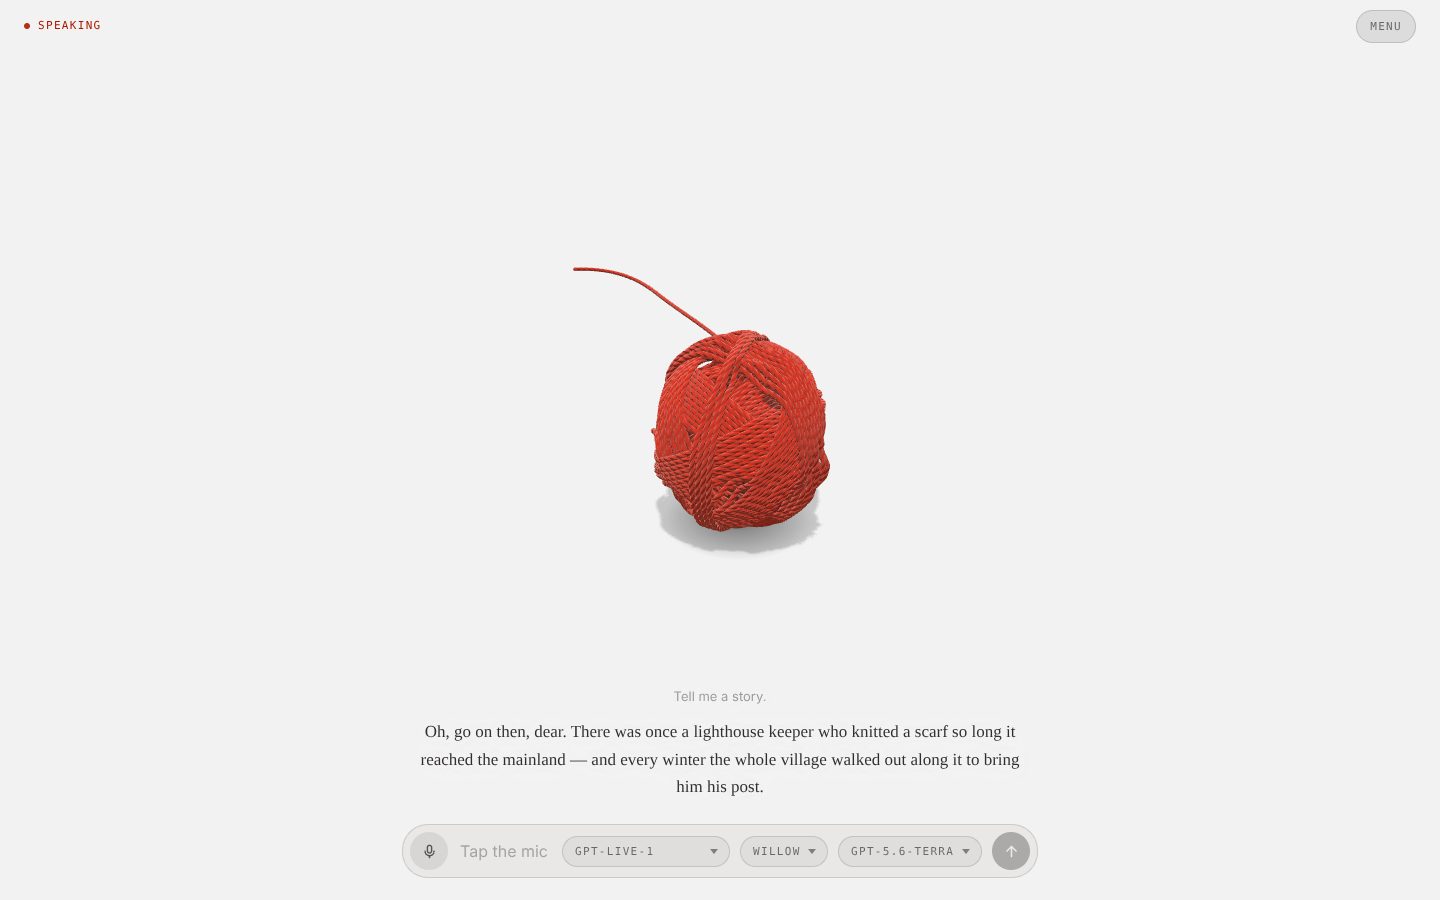
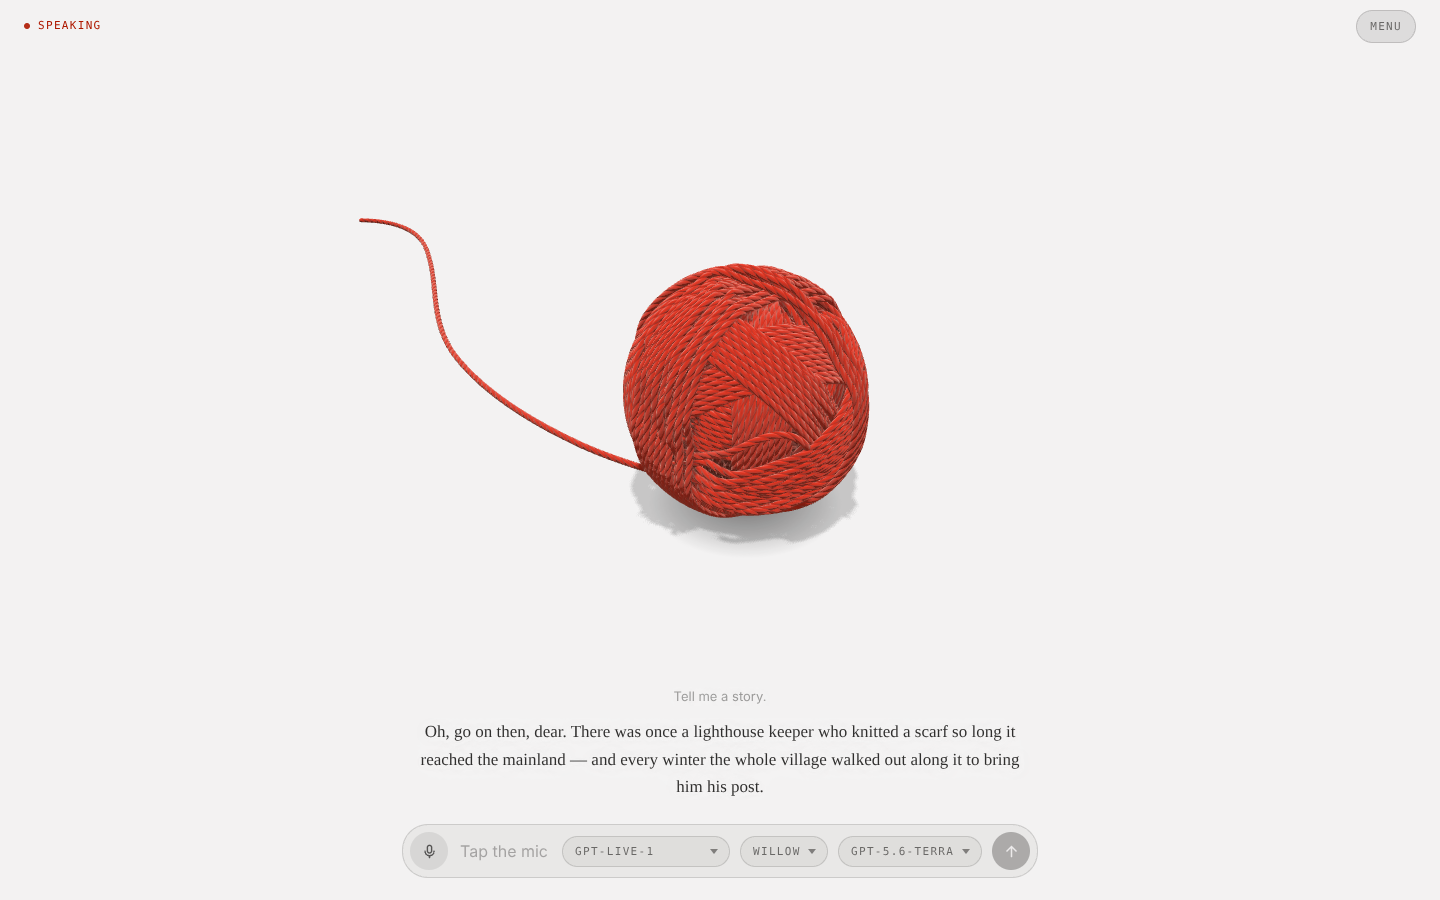
Roll Carol on the diagonal, and orbit round her
- The route now runs diagonally, back-left to front-right, between the
  original side-to-side and the straight-at-the-camera versions.
- The camera's pivot follows the ball most of the way from the middle of the
  route, at ball height, so dragging orbits Carol instead of a point under
  the floor. The camera sits closer.
- gfx: a lensShift on PerspectiveCamera slides the picture up clear of the
  caption without aiming the camera below the floor.
- The floor test now checks the whole route, allowing the yarn-width dips
  the asset's averaged radius produces.
- Screenshots and design notes updated.

Claude-Session: https://claude.ai/code/session_01FzdF7g8vzkqoMdQj7Bxx7t

diff --git a/src/client/yarn/index.js b/src/client/yarn/index.js
@@ -4,14 +4,25 @@ import { ENERGY_GAIN, MOODS, ROLL } from './moods.js';
 /** The springs are stepped at no less than this, so they stay stable on a slow frame. */
 const STEP = 1 / 120;
 
-/** Where the camera looks: the middle of the route, a little under the floor — so the floor sits above the caption. */
-const TARGET = Object.freeze({ x: 0, y: -0.04, z: 0 });
+/** The middle of the route, at the height of the middle of the ball. */
+const TARGET = Object.freeze({ x: 0, y: 0.09, z: 0 });
 
 /**
- * How far up a tall screen the floor is lifted, as a share of the view's height
- * for each unit the screen is narrower than square.
+ * What the camera turns round follows her this much of the way from the middle
+ * of the route: nearly all, so a drag orbits Carol rather than a spot on the
+ * floor, but not quite, so she still comes toward you when she rolls forward.
  */
-const LIFT = 0.22;
+const FOLLOW = 0.8;
+
+/** How quickly that point keeps up with her, per second. */
+const FOLLOW_RATE = 3;
+
+/**
+ * How far up the picture is slid, as a share of its height, so she sits above
+ * the caption and the composer: a little on a wide screen, and more for each
+ * unit a tall one is narrower than square.
+ */
+const SHIFT = Object.freeze({ base: 0.06, tall: 0.22 });
 
 /** The way the camera looks in from, before anyone orbits it. */
 const SEAT = Object.freeze({ x: 1, y: 0.9, z: 1.25 });
@@ -78,22 +89,22 @@ export function createCarol({ stage, GFX, seed }) {
   /**
    * Back the camera off, along the way it already looks, far enough that the
    * ball at the near end of the route is still a ball and not the whole view,
-   * and that the route's sway fits across. On a phone held upright the width is
-   * what decides it — and the caption and the composer
-   * take the bottom of a tall screen, so the floor is lifted clear of them.
+   * and that the route fits across. On a phone held upright the width is what
+   * decides it — and the caption and the composer take the bottom of a tall
+   * screen, so the picture is slid up clear of them.
    */
   function refit(camera) {
     const target = stage._controls?.target;
     const half = Math.tan((camera.fov * Math.PI) / 360);
     const aspect = Math.max(camera.aspect || 1.6, 0.45);
-    const distance = Math.max(1.45, 0.32 / (half * aspect));
+    const distance = Math.max(0.95, 0.3 / (half * aspect));
     const away = camera.position.clone();
     if (target) away.sub(target);
     if (away.lengthSq() === 0) away.set(SEAT.x, SEAT.y, SEAT.z);
-    if (target) target.y = TARGET.y - Math.max(0, 1 - aspect) * LIFT * 2 * distance * half;
     camera.position.copy(target ?? new GFX.Vector3()).add(away.normalize().multiplyScalar(distance));
     camera.near = 0.01;
     camera.far = 50;
+    camera.lensShift = SHIFT.base + Math.max(0, 1 - aspect) * SHIFT.tall;
     camera.updateProjectionMatrix();
     if (stage._controls) {
       stage._controls.minDistance = ZOOM.in;
@@ -147,8 +158,8 @@ export function createCarol({ stage, GFX, seed }) {
   // strand lies on y = 0, and the camera is set from the route instead.
   const camera = stage._camera;
   if (camera && stage._controls) {
-    stage._controls.target.set(TARGET.x, TARGET.y, TARGET.z);
-    camera.position.set(TARGET.x + SEAT.x, TARGET.y + SEAT.y, TARGET.z + SEAT.z);
+    pivot(stage._controls.target);
+    camera.position.copy(stage._controls.target).add(new GFX.Vector3(SEAT.x, SEAT.y, SEAT.z));
     stage._controls.maxPolarAngle = Math.PI / 2 - 0.04;
     refit(camera);
     fitted = camera.aspect;
@@ -179,8 +190,28 @@ export function createCarol({ stage, GFX, seed }) {
     stage._scene.add(contact);
   }
 
+  /** Where the camera should turn round, for where she is now. */
+  function pivot(into) {
+    const b = yarn.ball.position;
+    return into.set(TARGET.x + (b.x - TARGET.x) * FOLLOW, TARGET.y, TARGET.z + (b.z - TARGET.z) * FOLLOW);
+  }
+
+  const aim = new GFX.Vector3();
+  const shift = new GFX.Vector3();
+
+  /** Carry the pivot after her, and the camera with it, so the view keeps its angle and distance. */
+  function follow(dt) {
+    const target = stage._controls?.target;
+    if (!target) return;
+    pivot(aim);
+    shift.copy(aim).sub(target).multiplyScalar(Math.min(1, dt * FOLLOW_RATE));
+    target.add(shift);
+    stage._camera?.position.add(shift);
+  }
+
   function tick(dt) {
     frame(dt);
+    follow(dt);
     if (contact) contact.position.set(yarn.ball.position.x, 0.0006, yarn.ball.position.z);
   }
 

diff --git a/test/client/yarn.test.js b/test/client/yarn.test.js
@@ -125,7 +125,9 @@ describe('createYarn', () => {
   });
 
   it('rests the ball on the floor wherever it has rolled to', () => {
-    for (const s of [0, 0.3, yarn.routeLen]) {
+    // It rides on its radius averaged over a few centimetres of strand, so a
+    // lumpy turn may press into the floor by a yarn's width or so — never more.
+    for (let s = 0; s <= yarn.routeLen; s += 0.05) {
       yarn.pose(s);
       yarn.root.updateMatrixWorld(true);
       // The lowest of the vertices still wound, where the ball has them now.
@@ -137,7 +139,7 @@ describe('createYarn', () => {
         v.fromBufferAttribute(position, i).applyMatrix4(yarn.wound.matrixWorld);
         bottom = Math.min(bottom, v.y);
       }
-      assert.ok(bottom > -0.004 && bottom < 0.004, `at ${s} the ball's bottom is at ${bottom}`);
+      assert.ok(bottom > -2.5 * YR && bottom < 0.004, `at ${s} the ball's bottom is at ${bottom}`);
     }
   });
 
@@ -326,6 +328,33 @@ describe('createCarol', () => {
     createCarol({ stage: tall, GFX }).step(DT);
     const away = (s) => s._camera.position.distanceTo(s._controls.target);
     assert.ok(away(tall) > away(wide) * 1.1, `${away(tall)} against ${away(wide)}`);
+  });
+
+  it('turns the camera round her, not round a spot on the floor, and keeps its distance as she rolls', () => {
+    const target = stage._controls.target;
+    const away = () => stage._camera.position.distanceTo(target);
+    const from = away();
+    const start = target.clone();
+    carol.setState('speaking');
+    run(6);
+    const ball = carol.yarn.ball.position;
+    assert.ok(target.distanceTo(start) > 0.1, 'the pivot stayed put while she rolled');
+    assert.ok(Math.abs(target.y - 0.09) < 1e-9, 'the pivot left the height of the ball');
+    // Most of the way from the middle of the route to her, on the floor plane.
+    assert.ok(Math.hypot(target.x - ball.x * 0.8, target.z - ball.z * 0.8) < 0.02);
+    assert.ok(Math.abs(away() - from) < 1e-6, 'following her moved the camera nearer or further');
+    carol.setState('idle');
+    run(8);
+  });
+
+  it('slides the picture up clear of the caption, more on a tall screen, without turning the camera', () => {
+    const wide = fakeStage({ aspect: 16 / 9 });
+    const tall = fakeStage({ aspect: 9 / 19.5 });
+    createCarol({ stage: wide, GFX });
+    createCarol({ stage: tall, GFX });
+    assert.ok(wide._camera.lensShift > 0);
+    assert.ok(tall._camera.lensShift > wide._camera.lensShift);
+    assert.ok(tall._controls.target.y > 0, 'the camera turns round a point under the floor');
   });
 
   it('lets go of the stage when disposed', () => {

diff --git a/src/client/yarn/path.js b/src/client/yarn/path.js
@@ -1,7 +1,7 @@
 /**
- * Where the ball rolls: a gentle S across the floor, from the back of the room
- * toward the camera's usual seat — she comes to you to talk, and goes back when
- * it is over — and the tail behind its start that always lies there, curling as
+ * Where the ball rolls: a gentle S on the diagonal, from the back of the room
+ * on the left toward the front on the right of the camera's usual seat — she
+ * comes forward to talk, and goes back when it is over — and the tail behind its start that always lies there, curling as
  * it nears its end. Positions are in the floor plane (x, z), in metres.
  */
 
@@ -12,11 +12,12 @@ export const NUB = 0.22;
 const RIGHT = norm([1.25, -1]);
 const TOWARD = norm([1, 1.25]);
 
-/**
- * The route's knots, as (toward, across) pairs: mostly toward the viewer, with
- * enough of a sway that the strand behind her isn't hidden by the ball.
- */
-const KNOTS = [[-0.45, -0.1], [-0.22, 0.02], [0, 0.07], [0.2, 0.03], [0.4, -0.06]];
+/** Halfway between the two: the way the route runs, and square to it. */
+const ALONG = norm([RIGHT[0] + TOWARD[0], RIGHT[1] + TOWARD[1]]);
+const SIDE = norm([TOWARD[0] - RIGHT[0], TOWARD[1] - RIGHT[1]]);
+
+/** The route's knots, as (along, side) pairs: a diagonal with a gentle sway. */
+const KNOTS = [[-0.5, -0.08], [-0.24, 0.05], [0, 0.07], [0.24, 0.0], [0.46, -0.07]];
 
 /** Floor samples every this many metres along the route; positions between are interpolated. */
 const SPACING = 0.002;
@@ -73,9 +74,9 @@ export function catmullRom(points) {
  * the tail — with the unit direction it runs in there.
  */
 export function buildRoute() {
-  const curve = catmullRom(KNOTS.map(([f, r]) => [
-    RIGHT[0] * r + TOWARD[0] * f,
-    RIGHT[1] * r + TOWARD[1] * f,
+  const curve = catmullRom(KNOTS.map(([a, s]) => [
+    ALONG[0] * a + SIDE[0] * s,
+    ALONG[1] * a + SIDE[1] * s,
   ]));
 
   // Arc length against the curve's own parameter, finely, then resampled evenly.

diff --git a/src/client/yarn/moods.js b/src/client/yarn/moods.js
@@ -7,7 +7,7 @@
  * - idle — wound up at the back of the room, breathing a little.
  * - listening — rolled a quarter of the way toward you, rocking as she takes it in.
  * - thinking — back and forth in the middle, turning it over.
- * - speaking — right up to the front: spinning a yarn, and skipping with the voice.
+ * - speaking — up to the front: spinning a yarn, and skipping with the voice.
  */
 export const MOODS = {
   idle: {

diff --git a/docs/design.md b/docs/design.md
@@ -78,18 +78,19 @@ the floor exactly where the ball was when it got there — so rolling out and
 rolling back are exact inverses, and the wound part ends where the laid part
 begins.
 
-The route (`yarn/path.js`) runs from the back of the room toward the camera's
-usual seat: she comes to you to talk and goes back when it is over. It is a
-centripetal Catmull-Rom spline with a gentle sway, so the strand behind her is
-never hidden by the ball, sampled evenly by arc length. Behind its start a 22 cm
+The route (`yarn/path.js`) runs on the diagonal, from the back of the room on
+the left to the front on the right of the camera's usual seat: she comes forward
+to talk and goes back when it is over. It is a centripetal Catmull-Rom spline
+with a gentle sway, sampled evenly by arc length. Behind its start a 22 cm
 tail always lies on the floor, curling off to one side as it nears its end.
 
 The yarn is from a design asset written for three.js; it runs here on the same
 small engine as the other characters. Three things were added to Carol's copy of
 `vendor/gfx/` for it: repeat wrapping on textures (the plies tile along a strand
-seventy-odd metres long), and an `onFrame` hook on the stage that runs after the
+seventy-odd metres long), an `onFrame` hook on the stage that runs after the
 controls and before the shadow pass, so the ball and its shadow are posed in the
-same frame. The asset's ply shader, which three let it splice into the standard
+same frame, and a `lensShift` on the camera that slides the picture up without
+turning it. The asset's ply shader, which three let it splice into the standard
 material, became the texture above.
 
 Nothing she does is a canned animation: every frame is a spring chasing a spot
@@ -99,11 +100,14 @@ on the floor, with a rhythm on top.
 
 A warm paper floor under a high key light, the stage's own studio. The shadow
 sits under the ball, and a soft dark pinch follows it where it meets the floor.
-The camera looks in from the front, a little above and to one side, down the
-route, and far enough back that the ball at its near end is still a ball and
-not the whole view. On a phone held upright it sits further back again, so the
-route's sway fits across, and the floor is lifted clear of the caption. It can orbit and zoom, but not go under
-the floor.
+The camera looks in from the front, a little above and to one side, and turns
+round Carol: what it orbits follows her most of the way from the middle of the
+route, carrying the camera with it, so a drag always swings round the ball and
+she still comes a little toward you when she rolls forward. On a phone held
+upright it sits further back, so the route fits across. The picture is slid up
+with a lens shift — more on a tall screen — so she sits clear of the caption and
+the composer without the camera aiming anywhere but at her. It can orbit and
+zoom, but not go under the floor.
 
 ## States
 
@@ -116,7 +120,7 @@ it pays strand out or winds it back in.
 - **idle** — wound up at the back of the room, breathing a little.
 - **listening** — rolled a quarter of the way toward you, rocking as she takes it in.
 - **thinking** — back and forth in the middle, turning it over.
-- **speaking** — right up to the front, paying out strand: spinning a yarn.
+- **speaking** — up to the front, paying out strand: spinning a yarn.
   The voice makes her skip.
 
 Transcript activity drives listening and speaking. Backend work drives thinking
